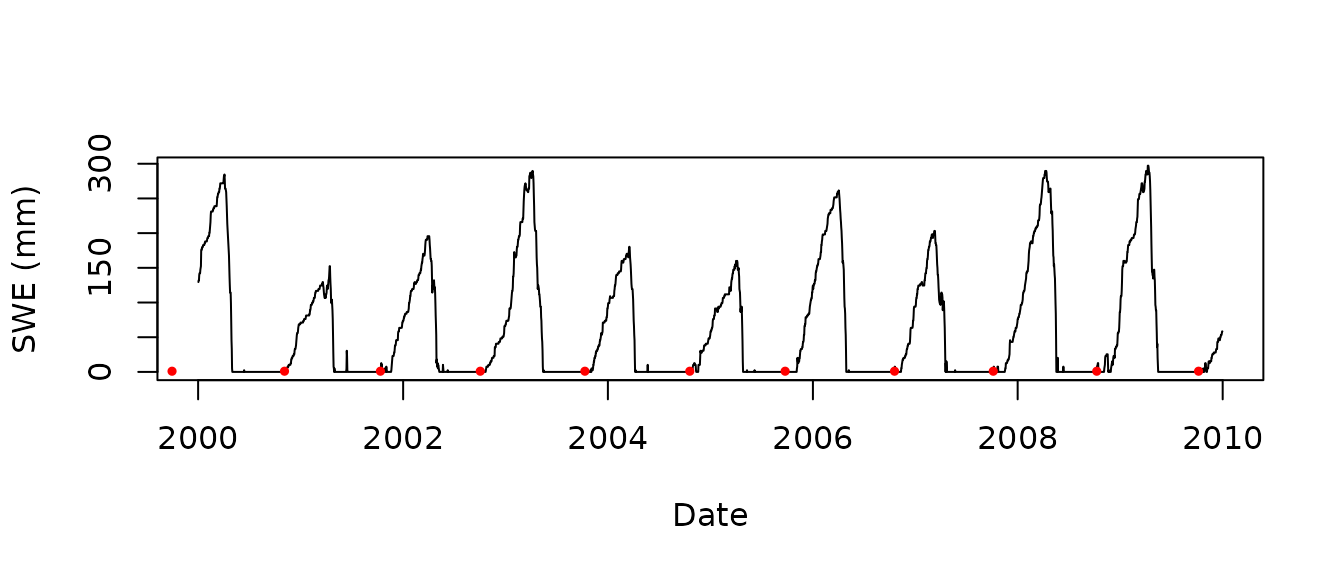
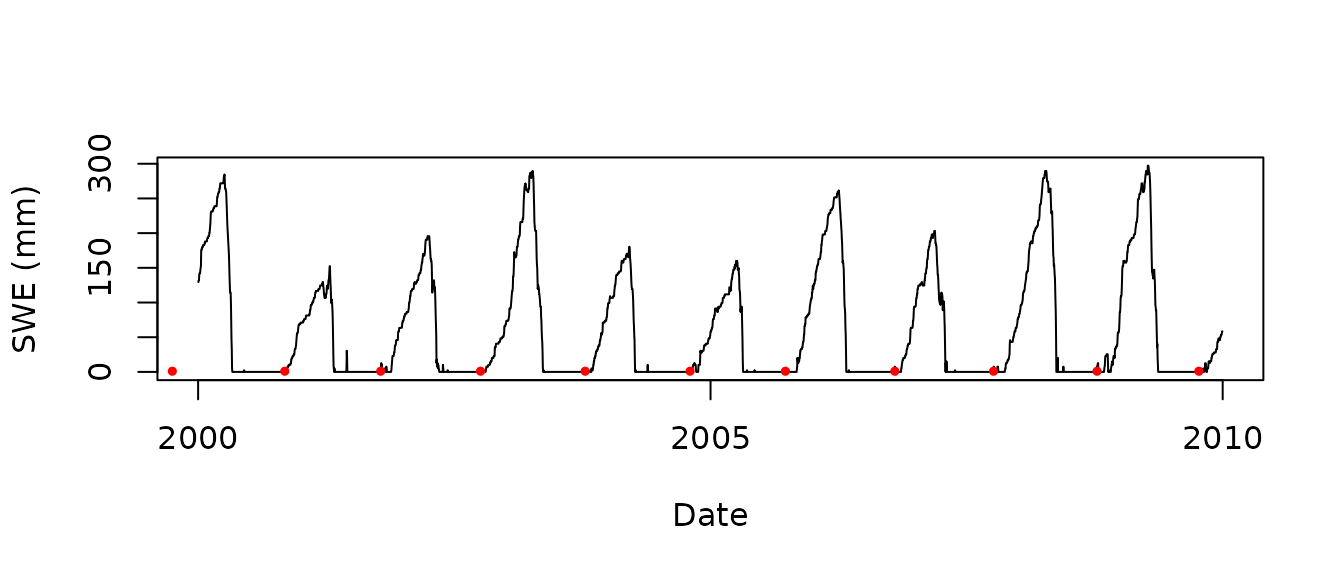
Deploying to gh-pages from @ bluegreen-labs/snotelr@ffde4a9b83629aa04c2ccab80ab6126cbae4da25 🚀

Changed region(s): [[0.4062, 0.7188, 0.6562, 0.7812], [0.7188, 0.7188, 0.7812, 0.7812], [0.25, 0.7188, 0.3438, 0.7812]]

diff --git a/articles/snotelr-vignette.html b/articles/snotelr-vignette.html
@@ -45,7 +45,7 @@
         <a class="external-link hidden-md hidden-lg" href="https://bluegreenlabs.org">
           <img src="https://bluegreenlabs.org/img/logo.png" id="hexlogo" alt="bluegreen labs"></a>
         <a class="navbar-brand" href="../index.html">
-           <i>snotelr <small>v1.2</small></i>
+           <i>snotelr <small>v1.3</small></i>
         </a>
       </div>
     </div>
@@ -93,7 +93,7 @@
                         <h4 data-toc-skip class="author">Koen
 Hufkens</h4>
             
-            <h4 data-toc-skip class="date">2023-03-21</h4>
+            <h4 data-toc-skip class="date">2023-07-13</h4>
       
       <small class="dont-index">Source: <a href="https://github.com/bluegreen-labs/snotelr/blob/HEAD/vignettes/snotelr-vignette.Rmd" class="external-link"><code>vignettes/snotelr-vignette.Rmd</code></a></small>
       <div class="hidden name"><code>snotelr-vignette.Rmd</code></div>
@@ -129,27 +129,20 @@ missing the data is returned as an <code>R</code> variable.</p>
 <code class="sourceCode R"><span><span class="co"># download and list site information</span></span>
 <span><span class="va">site_meta_data</span> <span class="op">&lt;-</span> <span class="fu"><a href="../reference/snotel_info.html">snotel_info</a></span><span class="op">(</span><span class="op">)</span></span>
 <span><span class="fu"><a href="https://rdrr.io/r/utils/head.html" class="external-link">head</a></span><span class="op">(</span><span class="va">site_meta_data</span><span class="op">)</span></span>
-<span><span class="co">#&gt;   network state       site_name</span></span>
-<span><span class="co">#&gt; 1    SNTL    ID   couch summit </span></span>
-<span><span class="co">#&gt; 2    SNTL    MT  chicago ridge </span></span>
-<span><span class="co">#&gt; 3    SNTL    MT  stryker basin </span></span>
-<span><span class="co">#&gt; 4    SNTL    NV lamoille upper </span></span>
-<span><span class="co">#&gt; 5    SNTL    OR    fifteenmile </span></span>
-<span><span class="co">#&gt; 6    SNTL    UT        atwater </span></span>
-<span><span class="co">#&gt;                                          description      start        end</span></span>
-<span><span class="co">#&gt; 1            Lower Little Smoky Creek (170501130204) 2021-10-01 2023-03-21</span></span>
-<span><span class="co">#&gt; 2                          Rock Creek (170102131301) 2022-08-01 2023-03-21</span></span>
-<span><span class="co">#&gt; 3               West Fork Swift Creek (170102100501) 2022-09-01 2022-09-01</span></span>
-<span><span class="co">#&gt; 4         Thomas Creek-Lamoille Creek (160401010607) 2022-08-01 2023-03-21</span></span>
-<span><span class="co">#&gt; 5                           Dog River (170701050503) 2022-09-01 2023-03-21</span></span>
-<span><span class="co">#&gt; 6 Headwaters Little Cottonwood Canyon (160202040202) 2022-08-01 2023-03-21</span></span>
-<span><span class="co">#&gt;   latitude longitude elev     county site_id</span></span>
-<span><span class="co">#&gt; 1    43.52   -114.80 2073      Camas    1306</span></span>
-<span><span class="co">#&gt; 2    48.06   -115.70 1768    Sanders    1312</span></span>
-<span><span class="co">#&gt; 3    48.68   -114.66 1876   Flathead    1311</span></span>
-<span><span class="co">#&gt; 4    40.60   -115.38 2741       Elko    1310</span></span>
-<span><span class="co">#&gt; 5    45.35   -121.53 1820 Hood River    1314</span></span>
-<span><span class="co">#&gt; 6    40.59   -111.64 2668  Salt Lake    1308</span></span></code></pre></div>
+<span><span class="co">#&gt;   network state       site_name                                description</span></span>
+<span><span class="co">#&gt; 1    SNTL    MT   elk peak alt               Fourmile Creek (100301030104)</span></span>
+<span><span class="co">#&gt; 2    SNTL    ID   couch summit     Lower Little Smoky Creek (170501130204)</span></span>
+<span><span class="co">#&gt; 3    SNTL    MT  chicago ridge                   Rock Creek (170102131301)</span></span>
+<span><span class="co">#&gt; 4    SNTL    MT  stryker basin        West Fork Swift Creek (170102100501)</span></span>
+<span><span class="co">#&gt; 5    SNTL    NV lamoille upper  Thomas Creek-Lamoille Creek (160401010607)</span></span>
+<span><span class="co">#&gt; 6    SNTL    OR    fifteenmile                    Dog River (170701050503)</span></span>
+<span><span class="co">#&gt;        start        end latitude longitude elev     county site_id</span></span>
+<span><span class="co">#&gt; 1 2023-07-01 2023-07-13    46.48   -110.72 2378    Meagher    1316</span></span>
+<span><span class="co">#&gt; 2 2021-10-01 2023-07-13    43.52   -114.80 2073      Camas    1306</span></span>
+<span><span class="co">#&gt; 3 2022-08-01 2023-07-13    48.06   -115.70 1768    Sanders    1312</span></span>
+<span><span class="co">#&gt; 4 2022-09-01 2022-09-01    48.68   -114.66 1876   Flathead    1311</span></span>
+<span><span class="co">#&gt; 5 2022-08-01 2023-07-13    40.60   -115.38 2741       Elko    1310</span></span>
+<span><span class="co">#&gt; 6 2022-09-01 2023-07-13    45.35   -121.53 1820 Hood River    1314</span></span></code></pre></div>
 </div>
 <div class="section level2">
 <h2 id="downloading-site-data">Downloading site data<a class="anchor" aria-label="anchor" href="#downloading-site-data"></a>
@@ -161,7 +154,10 @@ its <code>site_id</code> below. By default the data, reported in
 imperial values, are converted to metric measurements.</p>
 <div class="sourceCode" id="cb2"><pre class="downlit sourceCode r">
 <code class="sourceCode R"><span><span class="co"># downloading data for a random site</span></span>
-<span><span class="va">snow_data</span> <span class="op">&lt;-</span> <span class="fu"><a href="../reference/snotel_download.html">snotel_download</a></span><span class="op">(</span>site_id <span class="op">=</span> <span class="fl">670</span>, internal <span class="op">=</span> <span class="cn">TRUE</span><span class="op">)</span></span>
+<span><span class="va">snow_data</span> <span class="op">&lt;-</span> <span class="fu"><a href="../reference/snotel_download.html">snotel_download</a></span><span class="op">(</span></span>
+<span>  site_id <span class="op">=</span> <span class="fl">670</span>,</span>
+<span>  internal <span class="op">=</span> <span class="cn">TRUE</span></span>
+<span>  <span class="op">)</span></span>
 <span><span class="co">#&gt; Downloading site: northeast entrance , with id: 670</span></span>
 <span></span>
 <span><span class="co"># show the data</span></span>
@@ -174,12 +170,12 @@ imperial values, are converted to metric measurements.</p>
 <span><span class="co">#&gt; 5    SNTL    MT northeast entrance  Cold Creek (100700010602) 1937-10-01</span></span>
 <span><span class="co">#&gt; 6    SNTL    MT northeast entrance  Cold Creek (100700010602) 1937-10-01</span></span>
 <span><span class="co">#&gt;          end latitude longitude elev                    county site_id</span></span>
-<span><span class="co">#&gt; 1 2023-03-21    45.01   -110.01 2240 Yellowstone National Park     670</span></span>
-<span><span class="co">#&gt; 2 2023-03-21    45.01   -110.01 2240 Yellowstone National Park     670</span></span>
-<span><span class="co">#&gt; 3 2023-03-21    45.01   -110.01 2240 Yellowstone National Park     670</span></span>
-<span><span class="co">#&gt; 4 2023-03-21    45.01   -110.01 2240 Yellowstone National Park     670</span></span>
-<span><span class="co">#&gt; 5 2023-03-21    45.01   -110.01 2240 Yellowstone National Park     670</span></span>
-<span><span class="co">#&gt; 6 2023-03-21    45.01   -110.01 2240 Yellowstone National Park     670</span></span>
+<span><span class="co">#&gt; 1 2023-07-13    45.01   -110.01 2240 Yellowstone National Park     670</span></span>
+<span><span class="co">#&gt; 2 2023-07-13    45.01   -110.01 2240 Yellowstone National Park     670</span></span>
+<span><span class="co">#&gt; 3 2023-07-13    45.01   -110.01 2240 Yellowstone National Park     670</span></span>
+<span><span class="co">#&gt; 4 2023-07-13    45.01   -110.01 2240 Yellowstone National Park     670</span></span>
+<span><span class="co">#&gt; 5 2023-07-13    45.01   -110.01 2240 Yellowstone National Park     670</span></span>
+<span><span class="co">#&gt; 6 2023-07-13    45.01   -110.01 2240 Yellowstone National Park     670</span></span>
 <span><span class="co">#&gt;         date snow_water_equivalent precipitation_cumulative temperature_max</span></span>
 <span><span class="co">#&gt; 1 1966-10-01                   0.0                       NA              NA</span></span>
 <span><span class="co">#&gt; 2 1966-10-02                   7.6                       NA              NA</span></span>
@@ -200,7 +196,8 @@ imperial values, are converted to metric measurements.</p>
 <span>     <span class="va">snow_data</span><span class="op">$</span><span class="va">snow_water_equivalent</span>,</span>
 <span>     type <span class="op">=</span> <span class="st">"l"</span>,</span>
 <span>     xlab <span class="op">=</span> <span class="st">"Date"</span>,</span>
-<span>     ylab <span class="op">=</span> <span class="st">"SWE (mm)"</span><span class="op">)</span></span></code></pre></div>
+<span>     ylab <span class="op">=</span> <span class="st">"SWE (mm)"</span></span>
+<span>    <span class="op">)</span></span></code></pre></div>
 <p><img src="snotelr-vignette_files/figure-html/unnamed-chunk-3-1.png" width="672"></p>
 </div>
 <div class="section level2">
@@ -212,10 +209,7 @@ provided to calculate seasonal metrics of snow deposition.</p>
 <div class="sourceCode" id="cb4"><pre class="downlit sourceCode r">
 <code class="sourceCode R"><span><span class="co"># calculate snow phenology</span></span>
 <span><span class="va">phenology</span> <span class="op">&lt;-</span> <span class="fu"><a href="../reference/snotel_phenology.html">snotel_phenology</a></span><span class="op">(</span><span class="va">snow_data</span><span class="op">)</span></span>
-<span><span class="co">#&gt; Warning in rbind(deparse.level, ...): number of columns of result, 7, is not a</span></span>
-<span><span class="co">#&gt; multiple of vector length 4 of arg 1</span></span>
-<span><span class="co">#&gt; Warning in rbind(deparse.level, ...): number of columns of result, 7, is not a</span></span>
-<span><span class="co">#&gt; multiple of vector length 4 of arg 58</span></span></code></pre></div>
+<span><span class="co">#&gt; Joining with `by = join_by(date)`</span></span></code></pre></div>
 <div class="sourceCode" id="cb5"><pre class="downlit sourceCode r">
 <code class="sourceCode R"><span><span class="co"># subset data to the first decade of the century</span></span>
 <span><span class="va">snow_data_subset</span> <span class="op">&lt;-</span> <span class="fu"><a href="https://rdrr.io/r/base/subset.html" class="external-link">subset</a></span><span class="op">(</span><span class="va">snow_data</span>, <span class="fu"><a href="https://rdrr.io/r/base/as.Date.html" class="external-link">as.Date</a></span><span class="op">(</span><span class="va">date</span><span class="op">)</span> <span class="op">&gt;</span> <span class="fu"><a href="https://rdrr.io/r/base/as.Date.html" class="external-link">as.Date</a></span><span class="op">(</span><span class="st">"2000-01-01"</span><span class="op">)</span> <span class="op">&amp;</span></span>
@@ -226,14 +220,16 @@ provided to calculate seasonal metrics of snow deposition.</p>
 <span>     <span class="va">snow_data_subset</span><span class="op">$</span><span class="va">snow_water_equivalent</span>,</span>
 <span>     type <span class="op">=</span> <span class="st">"l"</span>,</span>
 <span>     xlab <span class="op">=</span> <span class="st">"Date"</span>,</span>
-<span>     ylab <span class="op">=</span> <span class="st">"SWE (mm)"</span><span class="op">)</span></span>
+<span>     ylab <span class="op">=</span> <span class="st">"SWE (mm)"</span></span>
+<span>  <span class="op">)</span></span>
 <span></span>
 <span><span class="co"># plot the dates of first snow accumulation as a red dot</span></span>
-<span><span class="fu"><a href="https://rdrr.io/r/graphics/points.html" class="external-link">points</a></span><span class="op">(</span><span class="fu"><a href="https://rdrr.io/r/base/as.Date.html" class="external-link">as.Date</a></span><span class="op">(</span><span class="fu"><a href="https://rdrr.io/r/base/paste.html" class="external-link">paste</a></span><span class="op">(</span><span class="va">phenology</span><span class="op">$</span><span class="va">year</span>, <span class="va">phenology</span><span class="op">$</span><span class="va">first_snow_acc</span><span class="op">)</span>,<span class="st">"%Y %j"</span><span class="op">)</span>,</span>
+<span><span class="fu"><a href="https://rdrr.io/r/graphics/points.html" class="external-link">points</a></span><span class="op">(</span><span class="va">phenology</span><span class="op">$</span><span class="va">first_snow_acc</span>,</span>
 <span>       <span class="fu"><a href="https://rdrr.io/r/base/rep.html" class="external-link">rep</a></span><span class="op">(</span><span class="fl">1</span>,<span class="fu"><a href="https://rdrr.io/r/base/nrow.html" class="external-link">nrow</a></span><span class="op">(</span><span class="va">phenology</span><span class="op">)</span><span class="op">)</span>,</span>
 <span>       col <span class="op">=</span> <span class="st">"red"</span>,</span>
 <span>       pch <span class="op">=</span> <span class="fl">19</span>,</span>
-<span>       cex <span class="op">=</span> <span class="fl">0.5</span><span class="op">)</span></span></code></pre></div>
+<span>       cex <span class="op">=</span> <span class="fl">0.5</span></span>
+<span>      <span class="op">)</span></span></code></pre></div>
 <p><img src="snotelr-vignette_files/figure-html/unnamed-chunk-5-1.png" width="672"></p>
 <p>A list of all provided snow phenology statistics is provided
 below.</p>

diff --git a/reference/snotel_phenology.html b/reference/snotel_phenology.html
@@ -23,7 +23,7 @@ are reported."><meta property="og:image" content="/logo.png"><meta name="twitter
         <a class="external-link hidden-md hidden-lg" href="https://bluegreenlabs.org">
           <img src="https://bluegreenlabs.org/img/logo.png" id="hexlogo" alt="bluegreen labs"></a>
         <a class="navbar-brand" href="../index.html">
-           <i>snotelr <small>v1.2</small></i>
+           <i>snotelr <small>v1.3</small></i>
         </a>
       </div>
     </div>
@@ -72,13 +72,17 @@ are reported.</p>
     </div>
 
     <div id="ref-usage">
-    <div class="sourceCode"><pre class="sourceCode r"><code><span><span class="fu">snotel_phenology</span><span class="op">(</span><span class="va">df</span><span class="op">)</span></span></code></pre></div>
+    <div class="sourceCode"><pre class="sourceCode r"><code><span><span class="fu">snotel_phenology</span><span class="op">(</span><span class="va">df</span>, threshold <span class="op">=</span> <span class="fl">0</span><span class="op">)</span></span></code></pre></div>
     </div>
 
     <div id="arguments">
     <h2>Arguments</h2>
     <dl><dt>df</dt>
 <dd><p>a snotel data file or data frame</p></dd>
+
+
+<dt>threshold</dt>
+<dd><p>threshold for mapping continuous snow cover</p></dd>
 
 </dl></div>
     <div id="details">

diff --git a/reference/snotel_download.html b/reference/snotel_download.html
@@ -24,7 +24,7 @@ sno-tel info as provided by snotel_info()"><meta property="og:image" content="/l
         <a class="external-link hidden-md hidden-lg" href="https://bluegreenlabs.org">
           <img src="https://bluegreenlabs.org/img/logo.png" id="hexlogo" alt="bluegreen labs"></a>
         <a class="navbar-brand" href="../index.html">
-           <i>snotelr <small>v1.2</small></i>
+           <i>snotelr <small>v1.3</small></i>
         </a>
       </div>
     </div>

diff --git a/articles/index.html b/articles/index.html
@@ -21,7 +21,7 @@
         <a class="external-link hidden-md hidden-lg" href="https://bluegreenlabs.org">
           <img src="https://bluegreenlabs.org/img/logo.png" id="hexlogo" alt="bluegreen labs"></a>
         <a class="navbar-brand" href="../index.html">
-           <i>snotelr <small>v1.2</small></i>
+           <i>snotelr <small>v1.3</small></i>
         </a>
       </div>
     </div>

diff --git a/news/index.html b/news/index.html
@@ -21,7 +21,7 @@
         <a class="external-link hidden-md hidden-lg" href="https://bluegreenlabs.org">
           <img src="https://bluegreenlabs.org/img/logo.png" id="hexlogo" alt="bluegreen labs"></a>
         <a class="navbar-brand" href="../index.html">
-           <i>snotelr <small>v1.2</small></i>
+           <i>snotelr <small>v1.3</small></i>
         </a>
       </div>
     </div>

diff --git a/reference/index.html b/reference/index.html
@@ -21,7 +21,7 @@
         <a class="external-link hidden-md hidden-lg" href="https://bluegreenlabs.org">
           <img src="https://bluegreenlabs.org/img/logo.png" id="hexlogo" alt="bluegreen labs"></a>
         <a class="navbar-brand" href="../index.html">
-           <i>snotelr <small>v1.2</small></i>
+           <i>snotelr <small>v1.3</small></i>
         </a>
       </div>
     </div>

diff --git a/reference/snotel_explorer.html b/reference/snotel_explorer.html
@@ -21,7 +21,7 @@
         <a class="external-link hidden-md hidden-lg" href="https://bluegreenlabs.org">
           <img src="https://bluegreenlabs.org/img/logo.png" id="hexlogo" alt="bluegreen labs"></a>
         <a class="navbar-brand" href="../index.html">
-           <i>snotelr <small>v1.2</small></i>
+           <i>snotelr <small>v1.3</small></i>
         </a>
       </div>
     </div>

diff --git a/reference/snotel_info.html b/reference/snotel_info.html
@@ -21,7 +21,7 @@
         <a class="external-link hidden-md hidden-lg" href="https://bluegreenlabs.org">
           <img src="https://bluegreenlabs.org/img/logo.png" id="hexlogo" alt="bluegreen labs"></a>
         <a class="navbar-brand" href="../index.html">
-           <i>snotelr <small>v1.2</small></i>
+           <i>snotelr <small>v1.3</small></i>
         </a>
       </div>
     </div>

diff --git a/reference/snotel_metric.html b/reference/snotel_metric.html
@@ -21,7 +21,7 @@
         <a class="external-link hidden-md hidden-lg" href="https://bluegreenlabs.org">
           <img src="https://bluegreenlabs.org/img/logo.png" id="hexlogo" alt="bluegreen labs"></a>
         <a class="navbar-brand" href="../index.html">
-           <i>snotelr <small>v1.2</small></i>
+           <i>snotelr <small>v1.3</small></i>
         </a>
       </div>
     </div>

diff --git a/404.html b/404.html
@@ -44,7 +44,7 @@
         <a class="external-link hidden-md hidden-lg" href="https://bluegreenlabs.org">
           <img src="https://bluegreenlabs.org/img/logo.png" id="hexlogo" alt="bluegreen labs"></a>
         <a class="navbar-brand" href="index.html">
-           <i>snotelr <small>v1.2</small></i>
+           <i>snotelr <small>v1.3</small></i>
         </a>
       </div>
     </div>

diff --git a/CONDUCT.html b/CONDUCT.html
@@ -21,7 +21,7 @@
         <a class="external-link hidden-md hidden-lg" href="https://bluegreenlabs.org">
           <img src="https://bluegreenlabs.org/img/logo.png" id="hexlogo" alt="bluegreen labs"></a>
         <a class="navbar-brand" href="index.html">
-           <i>snotelr <small>v1.2</small></i>
+           <i>snotelr <small>v1.3</small></i>
         </a>
       </div>
     </div>

diff --git a/LICENSE-text.html b/LICENSE-text.html
@@ -21,7 +21,7 @@
         <a class="external-link hidden-md hidden-lg" href="https://bluegreenlabs.org">
           <img src="https://bluegreenlabs.org/img/logo.png" id="hexlogo" alt="bluegreen labs"></a>
         <a class="navbar-brand" href="index.html">
-           <i>snotelr <small>v1.2</small></i>
+           <i>snotelr <small>v1.3</small></i>
         </a>
       </div>
     </div>
